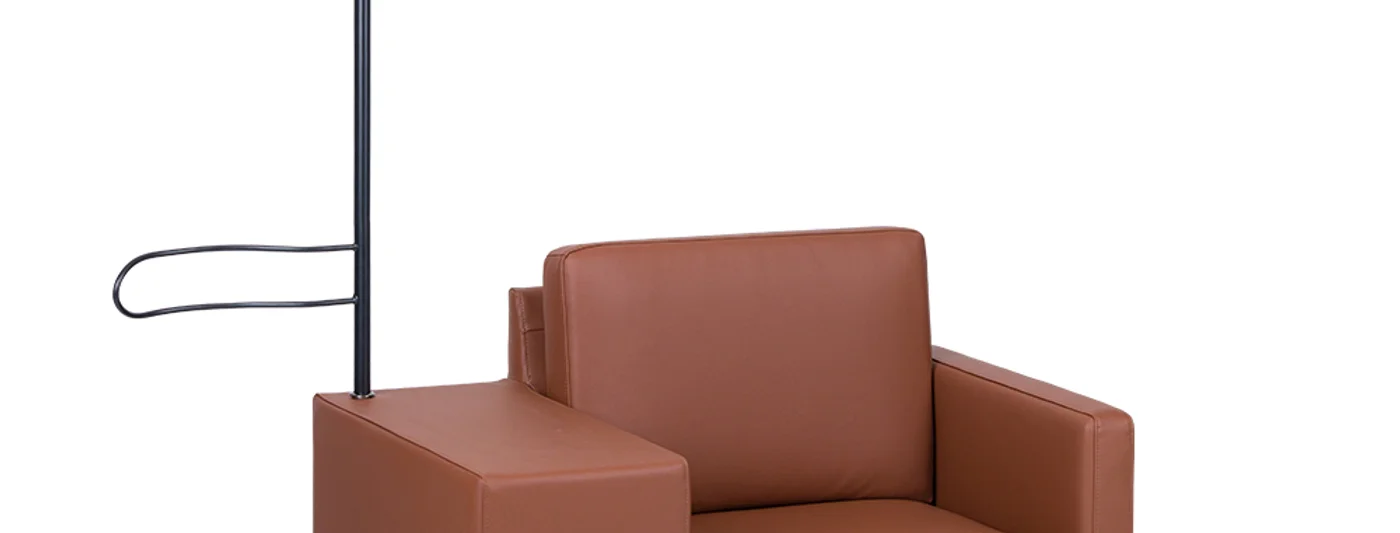
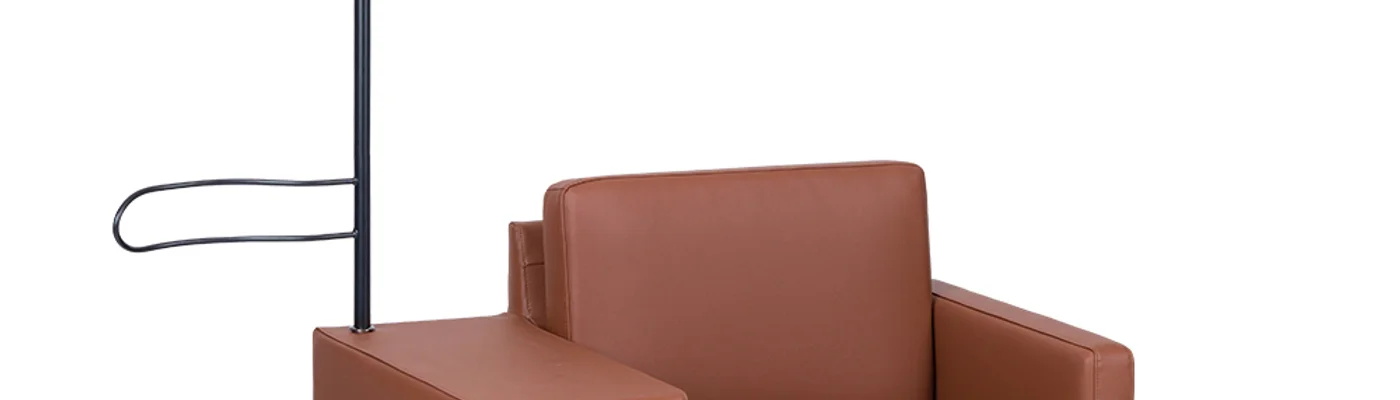
배너 비율 21/8→21/6, 이미지 1400x400으로 재크롭

diff --git a/components/GridPortfolio.tsx b/components/GridPortfolio.tsx
@@ -210,7 +210,7 @@ export function GridPortfolio() {
             viewport={{ once: true }}
             transition={{ duration: 0.8, delay: i * 0.1 }}
             className="group relative w-full overflow-hidden border-b border-neutral-100 cursor-pointer"
-            style={{ aspectRatio: "21/8" }}
+            style={{ aspectRatio: "21/6" }}
           >
             <Link href={p.href} className="block w-full h-full">
               <img
@@ -261,7 +261,7 @@ export function GridPortfolio() {
             viewport={{ once: true }}
             transition={{ duration: 0.8, delay: i * 0.1 }}
             className="group relative w-full overflow-hidden border-b border-neutral-100 cursor-pointer"
-            style={{ aspectRatio: "21/8" }}
+            style={{ aspectRatio: "21/6" }}
           >
             <Link href={p.href} className="block w-full h-full">
               <img
